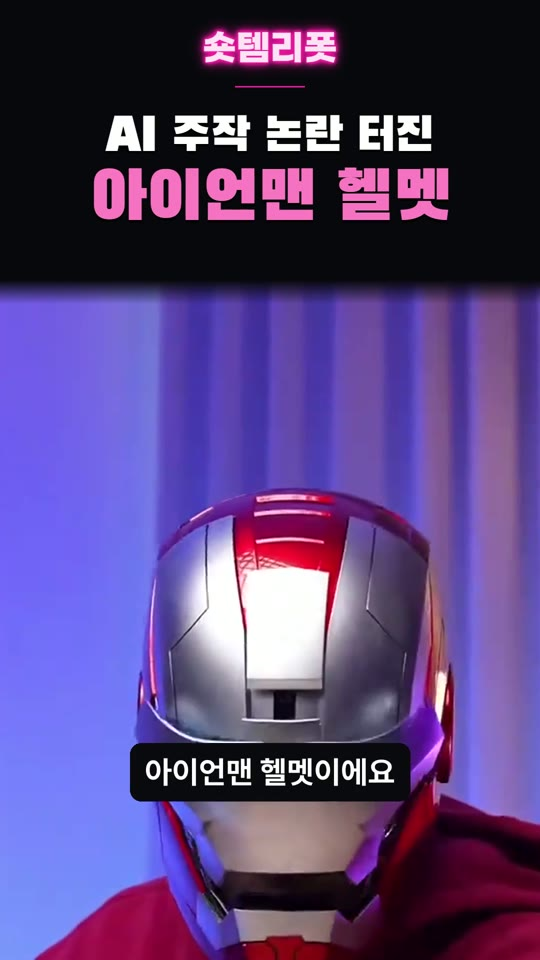
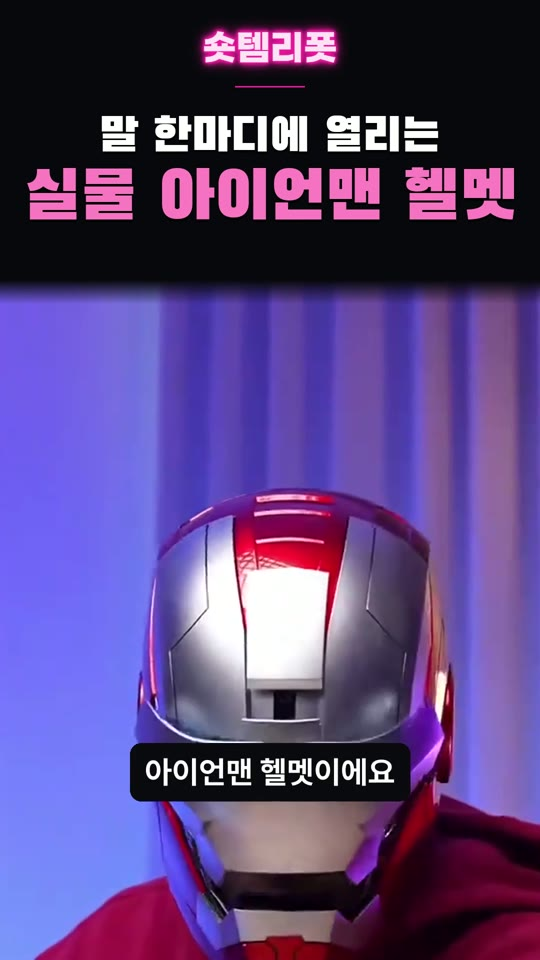
기본반 2회차 슬라이드: 썰템쇼 새 틀(주황·책갈피 없음) 화면, 숏템리폿 아이언맨 새 제목 반영

Changed region(s): [[0.0296, 0.0938, 0.9778, 0.25]]

diff --git a/out/기본반강의/2회차_4채널해부_슬라이드.html b/out/기본반강의/2회차_4채널해부_슬라이드.html
@@ -169,12 +169,12 @@ table.cmp td:first-child{background:var(--teal-l);font-weight:800;color:var(--in
 <div class="wrap"><div class="scaler"><section class="slide">
   <i class="screw s1"></i><i class="screw s2"></i><i class="screw s3"></i><i class="screw s4"></i>
   <h1 class="t">① 썰템쇼 해부도 <span class="c">(벤치: 재밌쇼)</span></h1>
-  <div class="cmp-lab" style="left:530px">벤치 원본 · 재밌쇼</div><div class="cmp-lab ours" style="left:830px">우리 · 썰템쇼</div><div class="phone sm" style="left:530px;top:240px"><img src="img4/b_sseol.jpg" alt="재밌쇼 원본 화면"></div><div class="vs">VS</div><div class="phone sm" style="left:830px;top:240px"><img src="img4/sseol.jpg" alt="썰템쇼 화면"></div>
+  <div class="cmp-lab" style="left:530px">벤치 원본 · 재밌쇼</div><div class="cmp-lab ours" style="left:830px">우리 · 썰템쇼</div><div class="phone sm" style="left:530px;top:240px"><img src="img4/b_sseol.jpg" alt="재밌쇼 원본 화면"></div><div class="vs">VS</div><div class="phone sm" style="left:830px;top:240px"><img src="img4/sseol_new.jpg" alt="썰템쇼 화면"></div>
   <div class="box call" style="left:70px;top:200px"><h3>0~2초 훅 카드</h3><p>짙은 바탕에 큰 제목 2줄(흰+연두)<br>"[주체] + [센 동사] + [정체 숨긴 대상]"</p></div>
-  <div class="box call" style="left:70px;top:520px"><h3>게시글 틀</h3><p>연두 머리띠 + 로고, 제목 1줄, '익명' 줄<br>→ 커뮤니티 글을 읽는 느낌</p></div>
+  <div class="box call" style="left:70px;top:520px"><h3>게시글 틀 (색은 우리 것)</h3><p>머리띠 + 로고, 제목 1줄, '익명' 줄<br>벤치 연두 → 우리 <b style="color:#E0651F">주황</b> · 오른쪽 위 아이콘 없앰</p></div>
   <div class="box call" style="left:1110px;top:200px"><h3>2줄 쌓이는 자막</h3><p>검정 글씨, 1줄 뜨고 2줄째 덧붙음<br>한 덩어리 최대 16자</p></div>
   <div class="box call" style="left:1110px;top:520px"><h3>소리</h3><p>나레 1명 + 경쾌한 BGM(말보다 12.9dB 아래)<br>말속도 초당 8.6자 · 효과음 0</p></div>
-  <span class="tag">왼쪽 = 벤치 상위편(조회 710만) · 오른쪽 = 우리 실제 업로드 편</span><span class="pg">05</span>
+  <span class="tag">왼쪽 = 벤치 상위편(조회 710만) · 오른쪽 = 우리 새 틀(주황) 적용 화면</span><span class="pg">05</span>
 </section></div></div>
 
 <!-- 6 썰템쇼 대본 -->
@@ -196,7 +196,7 @@ table.cmp td:first-child{background:var(--teal-l);font-weight:800;color:var(--in
         <div class="quote">아 찰떡아이스의 민족이 이걸 어케 참냐고 ㅋㅋ</div>
         <p style="font-size:18px">끝줄 16/16편이 ㅋㅋ, 그중 12편이 '아/하 ~'로 시작</p></div>
       <div class="box" style="padding:22px"><h3>그대로 가져온 것</h3><ul><li>게시글 틀 (픽셀값 실측)</li><li>훅 카드</li><li>화자 대사 줄</li><li>끝줄 혼잣말</li></ul></div>
-      <div class="box" style="padding:22px"><h3 class="c">우리가 바꾼 것</h3><ul><li>로고 → 썰템쇼</li><li>벤치의 '조회수 줄'은 <b>뺌</b> (꾸민 숫자 = 가짜 지표)</li><li>남의 짤 대신 우리 짤</li><li>원본 자막은 흐림 처리</li></ul></div>
+      <div class="box" style="padding:22px"><h3 class="c">우리가 바꾼 것</h3><ul><li>로고 → 썰템쇼, 색 연두 → <b>주황</b></li><li>오른쪽 위 책갈피 아이콘 없앰</li><li>벤치의 '조회수 줄'은 <b>뺌</b> (꾸민 숫자 = 가짜 지표)</li><li>남의 짤 대신 우리 짤</li><li>원본 자막은 흐림 처리</li></ul></div>
     </div>
     <p style="margin-top:18px;font:700 20px Pretendard;color:var(--ink2)">소재: 한국 식품·생활 제품의 단종·차별·수입 비화 — 근거는 성분표·문의 답변·댓글 캡처 + 빨간 화살표</p>
   </div>
@@ -208,11 +208,11 @@ table.cmp td:first-child{background:var(--teal-l);font-weight:800;color:var(--in
   <i class="screw s1"></i><i class="screw s2"></i><i class="screw s3"></i><i class="screw s4"></i>
   <h1 class="t">② 숏템리폿 해부도 <span class="c">(벤치: 핫템리포트)</span></h1>
   <div class="cmp-lab" style="left:530px">벤치 원본 · 핫템리포트</div><div class="cmp-lab ours" style="left:830px">우리 · 숏템리폿</div><div class="phone sm" style="left:530px;top:240px"><img src="img4/b_report.jpg" alt="핫템리포트 원본 화면"></div><div class="vs">VS</div><div class="phone sm" style="left:830px;top:240px"><img src="img4/report_iron.jpg" alt="숏템리폿 화면"></div>
-  <div class="box call" style="left:70px;top:200px"><h3>위 검정 띠 + 2색 제목</h3><p>1줄 노랑(상황) / 2줄 빨강·크게(제품)<br>채널명은 맨 위 작게</p></div>
-  <div class="box call" style="left:70px;top:520px"><h3>아래는 해외 원본 영상</h3><p>원본 카메라 움직임 그대로<br>우리가 줌을 넣지 않는다</p></div>
+  <div class="box call" style="left:70px;top:200px"><h3>위 검정 띠 + 2색 제목</h3><p>1줄 상황 / 2줄 제품(크게)<br>벤치 노랑·빨강 → 우리 흰·분홍</p></div>
+  <div class="box call" style="left:70px;top:520px"><h3>제목 글귀는 우리 말로</h3><p>벤치 "AI 주작 논란 터진…" →<br>우리 "말 한마디에 열리는 실물 아이언맨 헬멧"</p></div>
   <div class="box call" style="left:1110px;top:200px"><h3>자막 색 = 누가 말하나</h3><p>나레 = 흰 글씨+검정 테두리<br>원본 사람 말 = <span style="background:#32FFEF;padding:0 6px">하늘색</span> · 최대 8자</p></div>
   <div class="box call" style="left:1110px;top:520px"><h3>나레 ↔ 원음 교대</h3><p>원음 나올 땐 나레를 끈다(겹침 거의 0)<br>원음 구간엔 BGM −6dB로 낮춤</p></div>
-  <span class="tag">왼쪽 = 벤치 상위편(조회 580만) · 오른쪽 = 우리 같은 소재 편</span><span class="pg">07</span>
+  <span class="tag">왼쪽 = 벤치 상위편(조회 580만) · 오른쪽 = 우리 같은 소재 편(제목을 우리 말로 바꿈)</span><span class="pg">07</span>
 </section></div></div>
 
 <!-- 8 숏템리폿 대본 -->
@@ -230,7 +230,7 @@ table.cmp td:first-child{background:var(--teal-l);font-weight:800;color:var(--in
         <div class="quote">저 영상 보고 쿠팡에 쳐 봤더니 진짜 있더라고요</div>
         <p style="font-size:18px">끝: '~다고 하네요' 뒤 원음 한마디 · 구매 유도 0/6편</p></div>
       <div class="box" style="padding:22px"><h3>소재 고르는 법</h3><ul><li>첫 화면에 제품이 보이는 해외 원본</li><li>쿠팡에 같은 제품이 있을 것</li><li>없으면 "똑같은 건 없어서 제일 비슷한 걸로"라고 <b>밝힌다</b></li></ul></div>
-      <div class="box" style="padding:22px"><h3 class="c">우리가 바꾼 것</h3><ul><li>뒤에 체험 구간을 붙인 <b>하이브리드</b></li><li>"오늘 소개할 제품은" 같은 광고 말투 금지</li><li>길이 30~42초</li></ul></div>
+      <div class="box" style="padding:22px"><h3 class="c">우리가 바꾼 것</h3><ul><li>뒤에 체험 구간을 붙인 <b>하이브리드</b></li><li>같은 소재라도 <b>제목 글귀는 벤치와 다르게</b></li><li>"오늘 소개할 제품은" 같은 광고 말투 금지</li><li>길이 30~42초</li></ul></div>
     </div>
   </div>
   <span class="pg">08</span>
